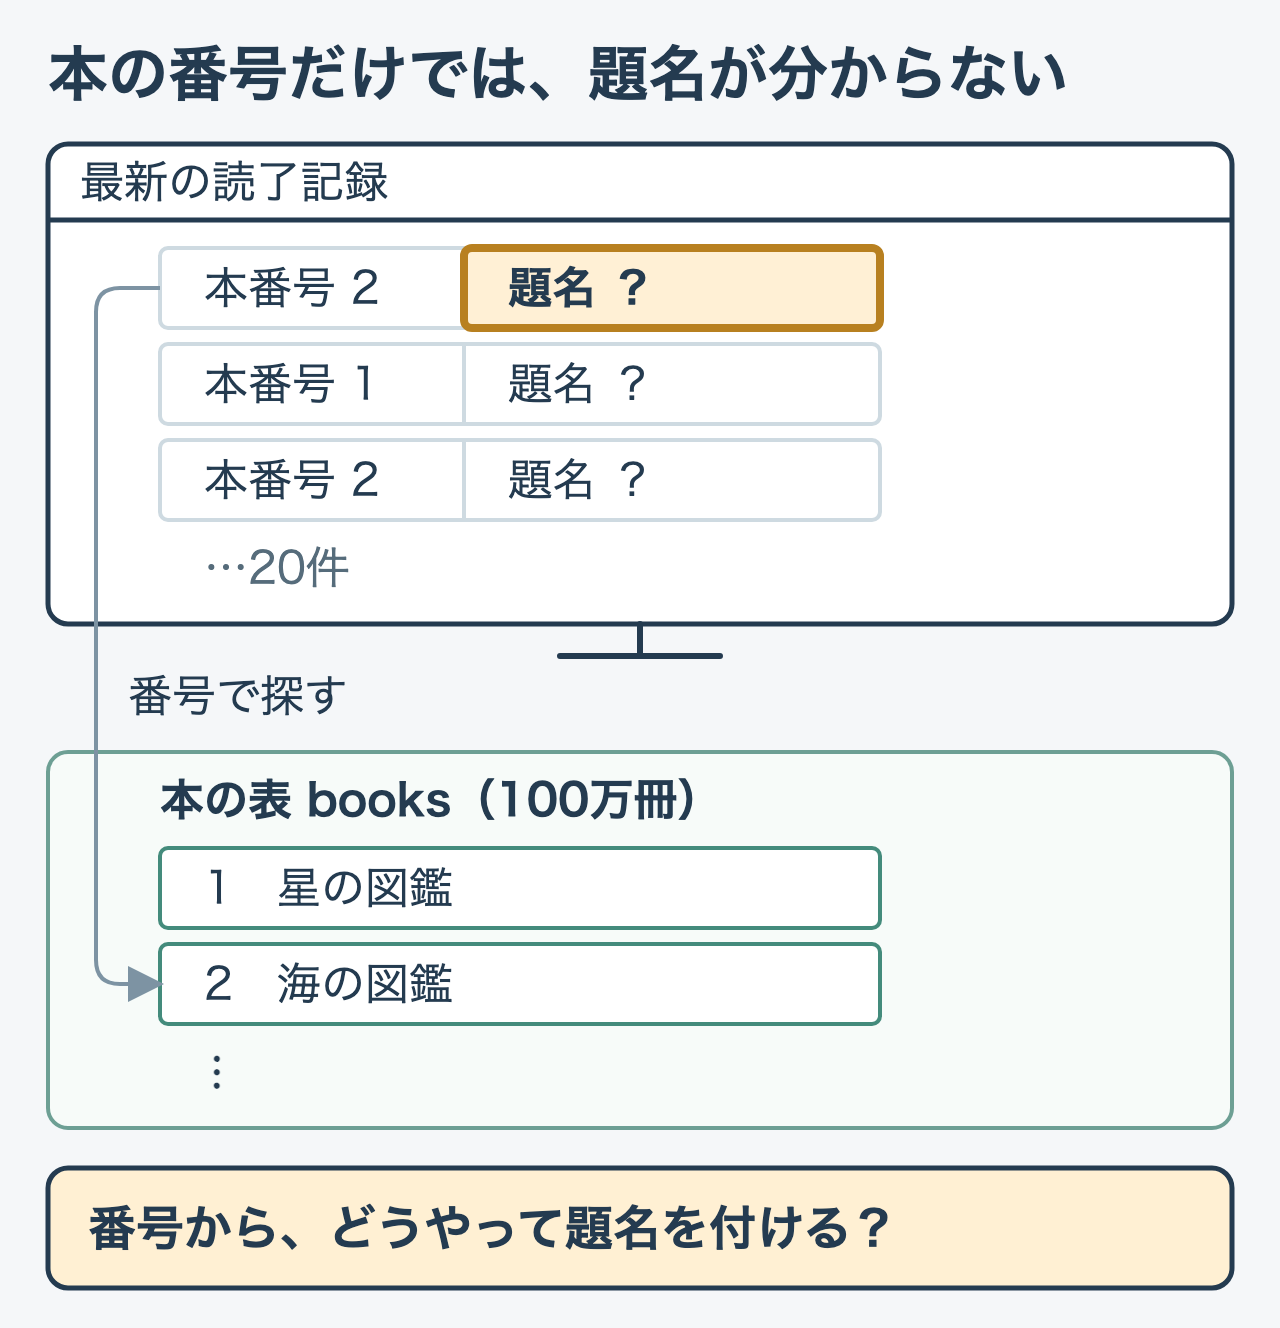
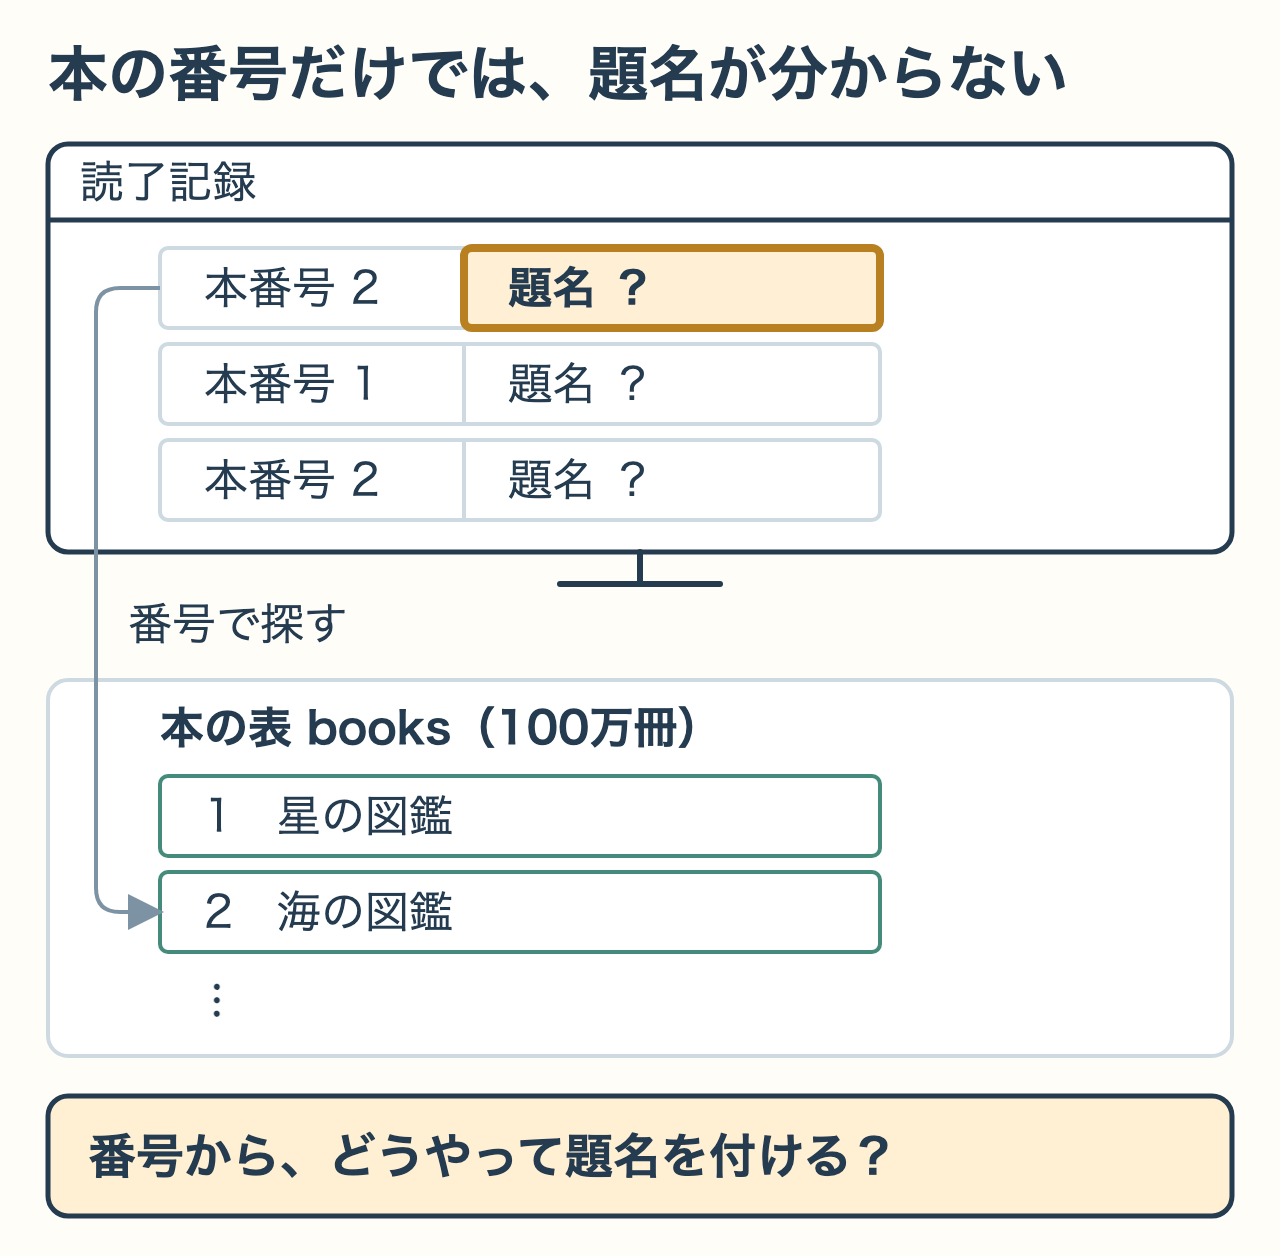
docs(query-journey): 第9章の入口の絵で、表の枠と背景を約束にそろえ、最新20件と読めないようにする
本の表の枠を、1ページを表すページ枠（.page）から、表全体に使う .panel に替えた。背景は、問いの型の試作（01-search-window・05-growing-library）と同じクリーム色 #fffdf7 にした。

画面の題名「最新の読了記録」を「読了記録」にし、「…20件」を外した。本文85行目は最新20件がすべて別の本だったと書くので、本2が2回ある3行が最新20件の一部に読めないようにするため。3行は図の直後の「3件の記録」の例と同じになる。外した1行の分だけ画面を縮め、図の高さを664から628にした。

代替テキストも「読了記録には本番号2・1・2しかなく、…」に合わせた。

Changed region(s): [[0.0312, 0.0311, 0.9688, 0.7763], [0.0312, 0.8073, 0.9688, 0.9936]]

diff --git a/books/postgresql-query-journey/09-join.md b/books/postgresql-query-journey/09-join.md
@@ -10,7 +10,7 @@ title: "第9章：本と読了記録を組み合わせ、数える"
 
 第8章で取り出した最新20件には、本の番号`book_id`はありますが、題名はありません。一覧に題名を出すには、記録にある番号から本の表をたどり、対応する行を組み合わせます。この対応付けが**結合（JOIN）**です。
 
-![最新の読了記録には本番号2・1・2しかなく、題名は画面の外の本の表で番号の行を探して付ける](/images/postgresql-query-journey/09-title-lookup.png)
+![読了記録には本番号2・1・2しかなく、題名は画面の外の本の表で番号の行を探して付ける](/images/postgresql-query-journey/09-title-lookup.png)
 *記録の「題名 ？」と、本番号から本の表へ伸びる1本の線を見てください。*
 
 この対応付けを行う方法は三つあり、件数や入力の並び方によって使い分けられます。この後、順に比べます。
